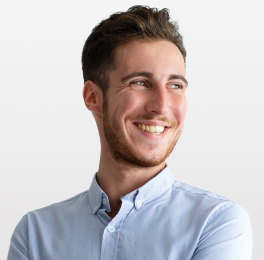
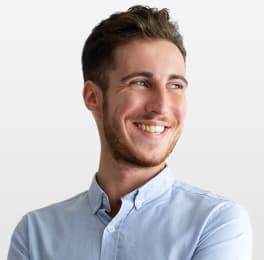
update foto

diff --git a/index.html b/index.html
@@ -64,7 +64,7 @@
             <h2>Our Team</h2>
             <ul>
                 <li>
-                    <img src="./images/img.jpg" alt='foto' width="264" height="260" />
+                    <img src="./images/img-sq.jpg" alt='foto' width="264" height="260" />
                     <h3>Mark Guerrero</h3>
                     <p>Product Designer</p>
                 </li>
@@ -74,7 +74,7 @@
                     <p>Frontend Developer</p>
                 </li>
                 <li>
-                    <img src="./images/img-three.jpg" alt='foto' width="264" height="260"/>
+                    <img src="./images/img-girl-sq.jpg" alt='foto' width="264" height="260"/>
                     <h3>Camila Garcia</h3>
                     <p>Marketing</p>
                 </li>
